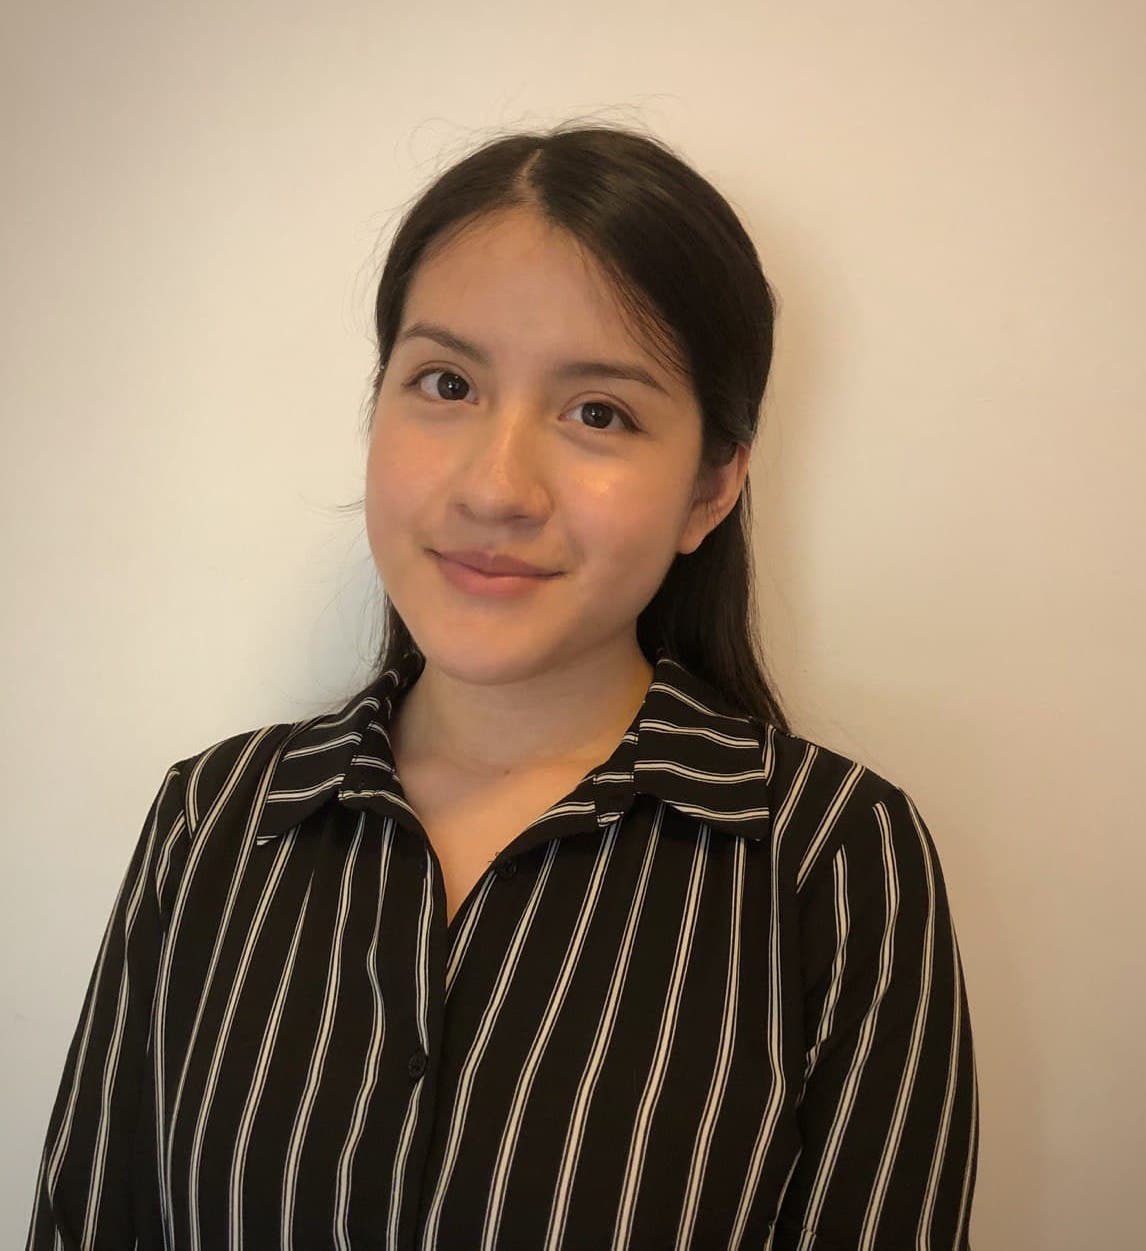
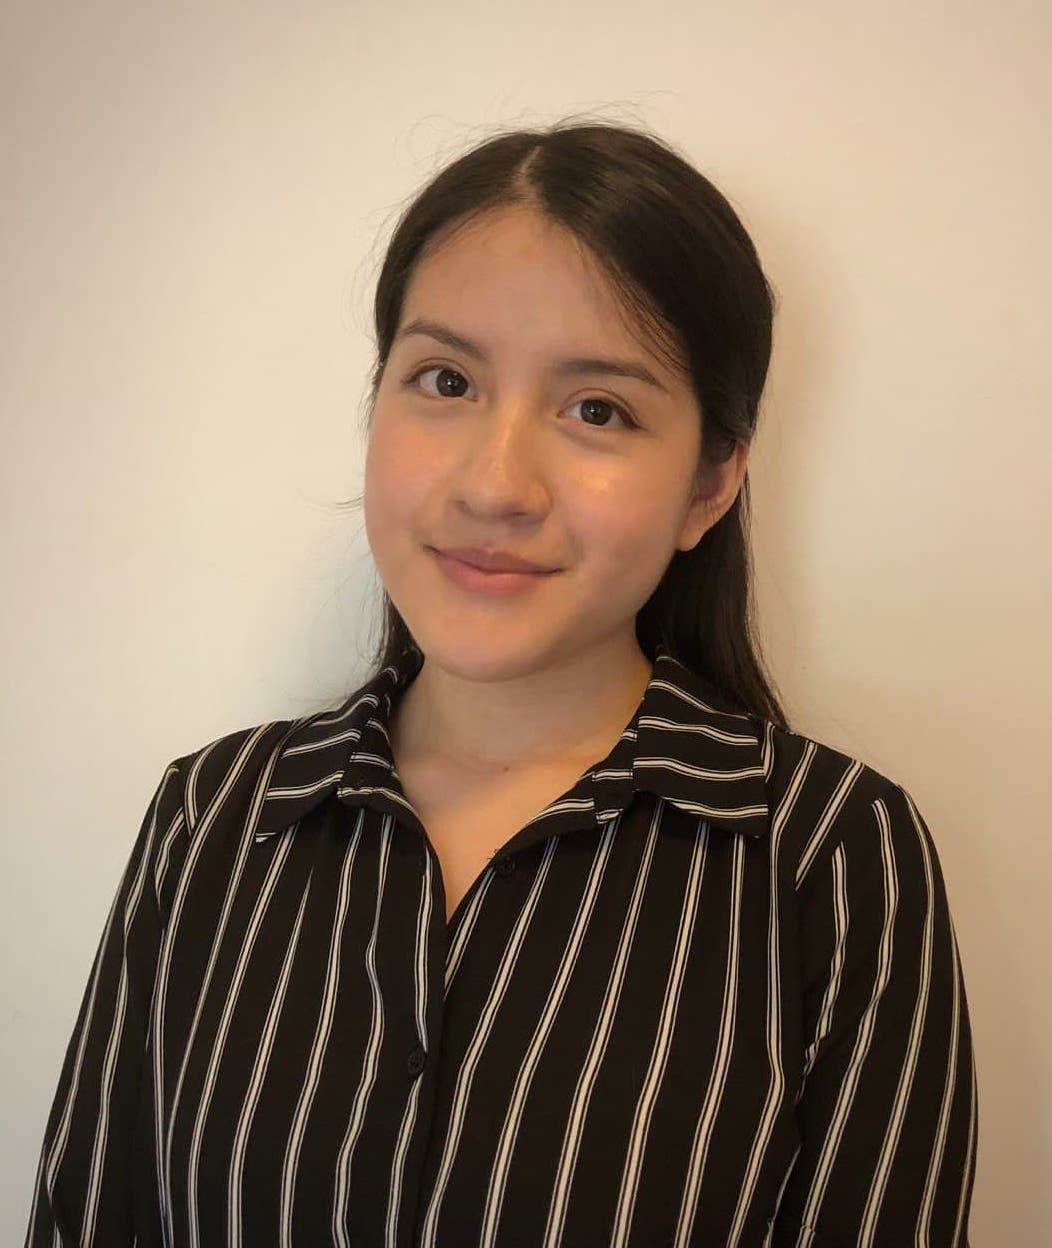
cropped profile pic and removed projects-flters from css

diff --git a/assets/css/style.css b/assets/css/style.css
@@ -502,38 +502,6 @@ section {
   margin-bottom: 30px;
 }
 
-.projects #projects-flters {
-  padding: 0;
-  margin: 0 auto 25px auto;
-  list-style: none;
-  text-align: center;
-  background: #fff;
-  border-radius: 50px;
-  padding: 2px 15px;
-}
-
-.projects #projects-flters li {
-  cursor: pointer;
-  display: inline-block;
-  padding: 10px 15px;
-  font-size: 14px;
-  font-weight: 600;
-  line-height: 1;
-  text-transform: uppercase;
-  color: #272829;
-  margin-bottom: 5px;
-  transition: all 0.3s ease-in-out;
-}
-
-.projects #projects-flters li:hover,
-.projects #projects-flters li.filter-active {
-  color: #0563bb;
-}
-
-.projects #projects-flters li:last-child {
-  margin-right: 0;
-}
-
 .projects .projects-wrap {
   transition: 0.3s;
   position: relative;
